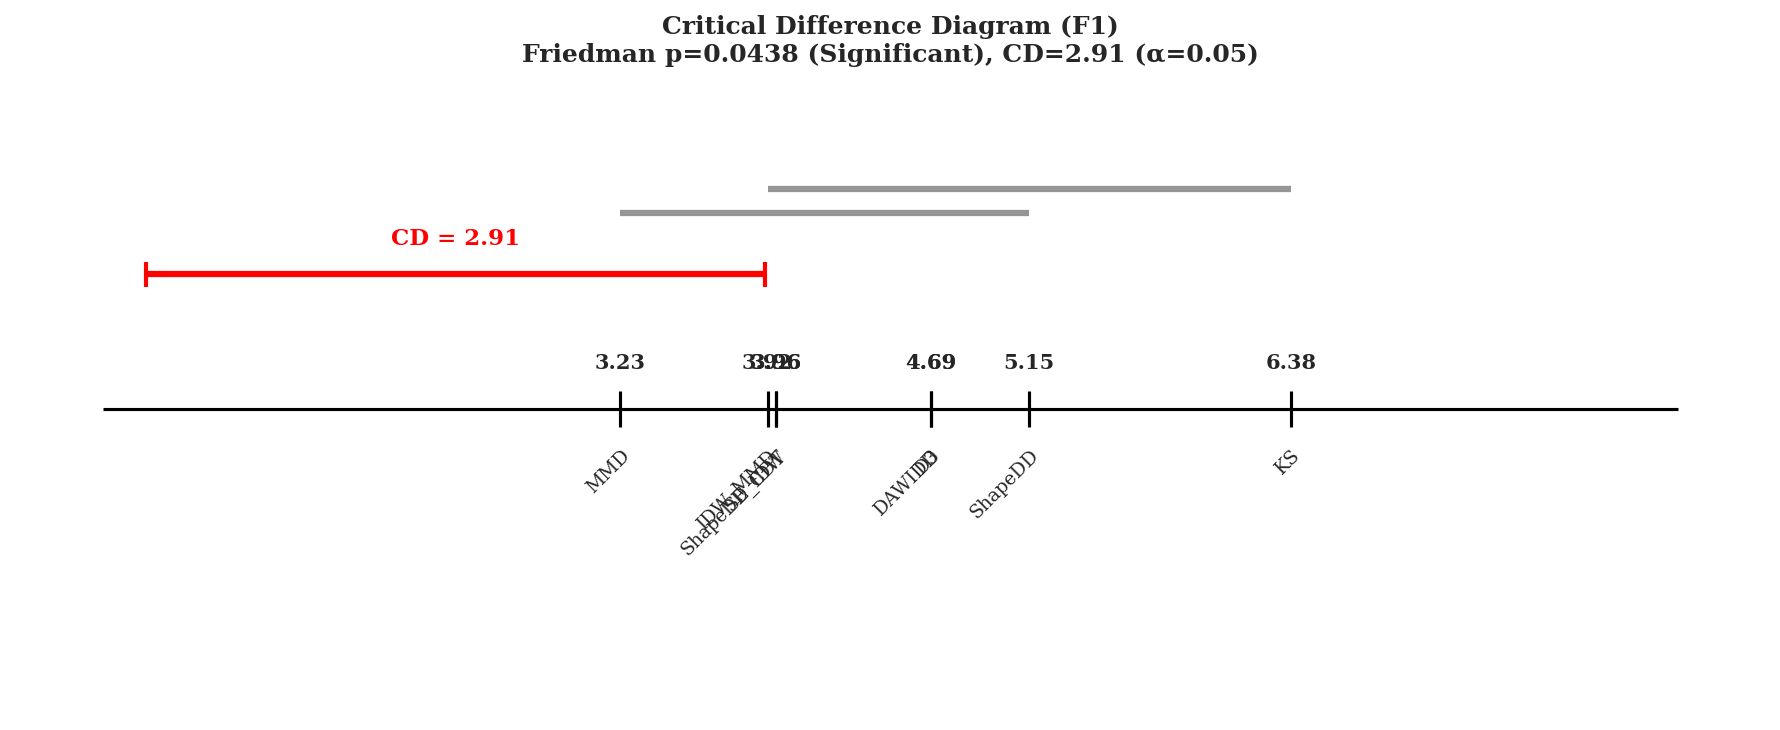
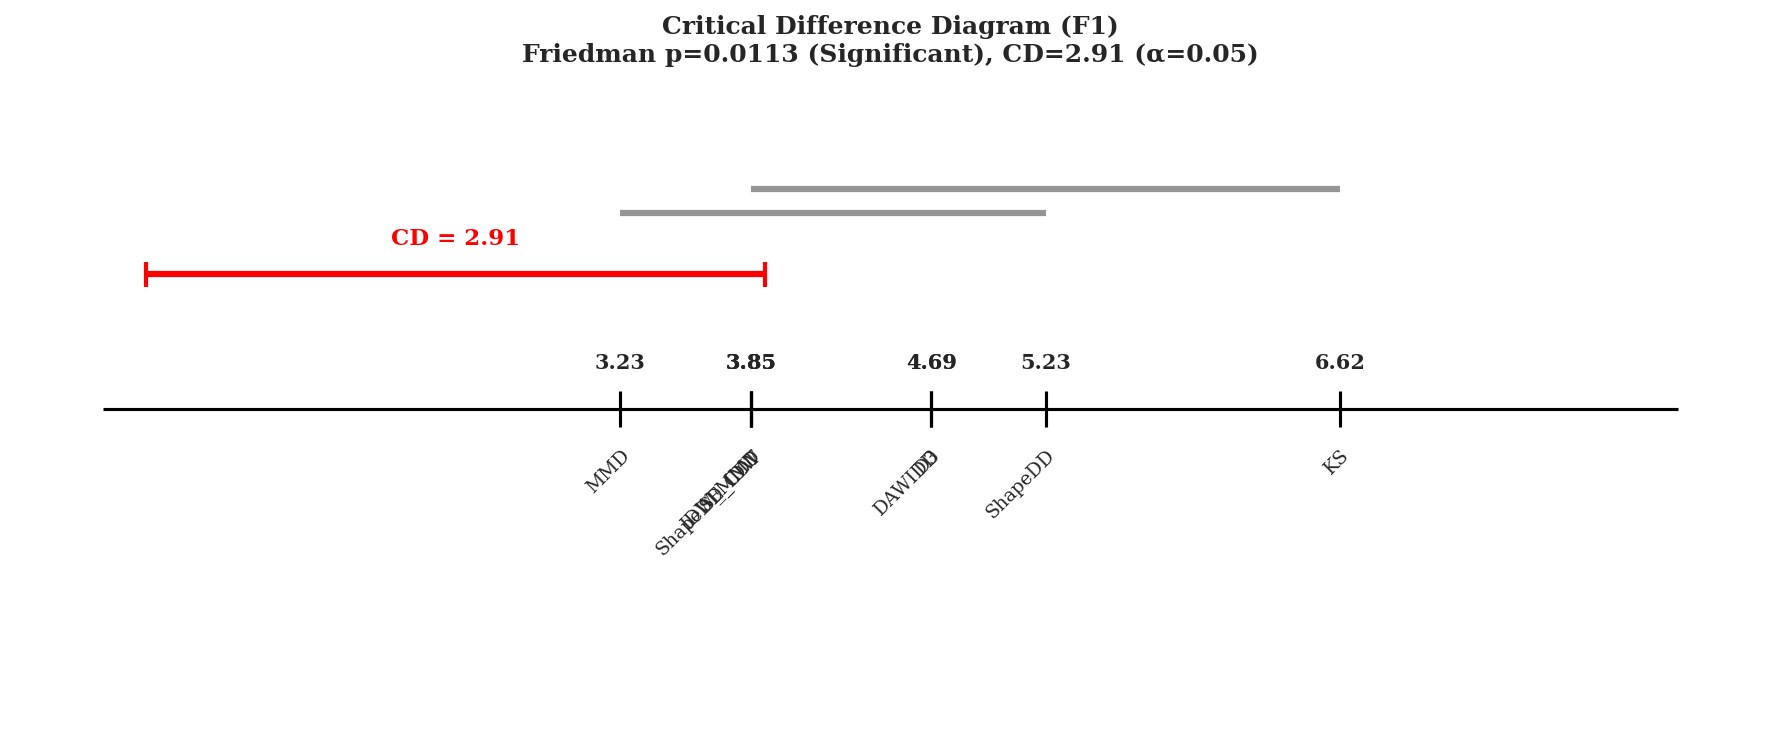
chore: update benchmark results (N=30 detection, N=1 classification)
Detection N=30 final numbers:
  ShapeDD_IDW F1=0.459, runtime=3.3s (vs ShapeDD: F1=0.433, runtime=19.4s)
  IDW_MMD F1=0.459 (confirms wmmd_gamma is the key improvement component)
  SE_CDT F1=0.459, runtime=3.2s

Classification N=1 (noisy, N=30 needed for stable estimates):
  SE-CDT CAT=74.1%, SUB=58.6%, Recall=95%

diff --git a/results/tables/table_II_f1_by_dataset.tex b/results/tables/table_II_f1_by_dataset.tex
@@ -2,13 +2,13 @@
 \hline
 \textbf{Method} & \textbf{electricity\_semisynthetic} & \textbf{gaussian\_gradual\_synthetic} & \textbf{gaussian\_shift\_moderate} & \textbf{gen\_random\_mild} & \textbf{gen\_random\_moderate} & \textbf{gen\_random\_severe} & \textbf{gen\_random\_ultra\_severe} & \textbf{hyperplane} & \textbf{led\_abrupt} & \textbf{rbfblips} & \textbf{stagger} & \textbf{stagger\_recurrent\_explicit} & \textbf{standard\_sea} & \textbf{Mean} \\
 \hline
-IDW\_MMD & 0.242 & 0.000 & 0.998 & 0.144 & 0.855 & 0.871 & 0.904 & 0.000 & 0.062 & 0.951 & 0.998 & 0.983 & 0.000 & 0.539 \\
 D3 & 0.194 & 0.029 & 0.998 & 0.012 & 0.249 & 0.959 & 0.959 & 0.000 & 0.000 & 1.000 & 0.998 & 1.000 & 0.000 & 0.492 \\
-MMD & 0.234 & 0.430 & 0.629 & 0.578 & 0.671 & 0.587 & 0.573 & 0.175 & 0.123 & 0.599 & 0.642 & 0.654 & 0.156 & 0.465 \\
+MMD & 0.235 & 0.431 & 0.629 & 0.576 & 0.669 & 0.585 & 0.571 & 0.179 & 0.123 & 0.601 & 0.640 & 0.652 & 0.153 & 0.465 \\
+IDW\_MMD & 0.300 & 0.429 & 0.600 & 0.525 & 0.685 & 0.581 & 0.572 & 0.188 & 0.146 & 0.598 & 0.599 & 0.631 & 0.118 & 0.459 \\
 SE\_CDT & 0.300 & 0.429 & 0.600 & 0.525 & 0.685 & 0.581 & 0.572 & 0.188 & 0.146 & 0.598 & 0.599 & 0.631 & 0.118 & 0.459 \\
 ShapeDD\_IDW & 0.300 & 0.429 & 0.600 & 0.525 & 0.685 & 0.581 & 0.572 & 0.188 & 0.146 & 0.598 & 0.599 & 0.631 & 0.118 & 0.459 \\
-DAWIDD & 0.214 & 0.410 & 0.592 & 0.596 & 0.665 & 0.585 & 0.578 & 0.143 & 0.135 & 0.573 & 0.586 & 0.601 & 0.140 & 0.448 \\
-ShapeDD & 0.209 & 0.414 & 0.591 & 0.533 & 0.590 & 0.527 & 0.519 & 0.203 & 0.170 & 0.555 & 0.579 & 0.593 & 0.140 & 0.433 \\
+DAWIDD & 0.214 & 0.411 & 0.594 & 0.597 & 0.666 & 0.587 & 0.579 & 0.134 & 0.134 & 0.575 & 0.585 & 0.599 & 0.137 & 0.447 \\
+ShapeDD & 0.209 & 0.414 & 0.593 & 0.531 & 0.591 & 0.529 & 0.521 & 0.202 & 0.174 & 0.556 & 0.576 & 0.590 & 0.143 & 0.433 \\
 KS & 0.183 & 0.255 & 0.294 & 0.337 & 0.402 & 0.385 & 0.385 & 0.224 & 0.073 & 0.301 & 0.389 & 0.389 & 0.200 & 0.294 \\
 \hline
 \end{tabular}

diff --git a/results/tables/table_I_comprehensive_performance.tex b/results/tables/table_I_comprehensive_performance.tex
@@ -2,13 +2,13 @@
 \hline
 \textbf{Method} & \textbf{Precision} & \textbf{Recall (EDR)} & \textbf{F1-Score} & \textbf{Delay} & \textbf{False Pos.} \\
 \hline
-IDW\_MMD & 0.572 & 0.557 & \textbf{0.539} & 24 & 2.1 \\
-D3 & 0.555 & 0.479 & 0.492 & 16 & 0.8 \\
-MMD & 0.351 & 0.760 & 0.466 & 32 & 15.0 \\
+D3 & 0.555 & 0.479 & \textbf{0.492} & 16 & 0.8 \\
+MMD & 0.350 & 0.760 & 0.465 & 32 & 15.0 \\
+IDW\_MMD & 0.346 & 0.760 & 0.459 & 33 & 14.5 \\
 SE\_CDT & 0.346 & 0.760 & 0.459 & 33 & 14.5 \\
 ShapeDD\_IDW & 0.346 & 0.760 & 0.459 & 33 & 14.5 \\
-DAWIDD & 0.334 & 0.759 & 0.448 & 33 & 16.3 \\
-ShapeDD & 0.310 & 0.775 & 0.433 & 31 & 18.4 \\
+DAWIDD & 0.333 & 0.758 & 0.447 & 33 & 16.3 \\
+ShapeDD & 0.311 & 0.775 & 0.433 & 31 & 18.4 \\
 KS & 0.189 & 0.826 & 0.294 & 29 & 37.8 \\
 \hline
 \end{tabular}

diff --git a/results/tables/table_II_part1.tex b/results/tables/table_II_part1.tex
@@ -2,13 +2,13 @@
 \hline
 \textbf{Method} & \textbf{Electricity} & \textbf{Gaussian Gradual Synthetic} & \textbf{Gaussian Moderate} & \textbf{Random Mild} \\
 \hline
-IDW\_MMD & 0.242 & 0.000 & 0.998 & 0.144 \\
 D3 & 0.194 & 0.029 & 0.998 & 0.012 \\
-MMD & 0.234 & 0.430 & 0.629 & 0.578 \\
+MMD & 0.235 & 0.431 & 0.629 & 0.576 \\
+IDW\_MMD & 0.300 & 0.429 & 0.600 & 0.525 \\
 SE\_CDT & 0.300 & 0.429 & 0.600 & 0.525 \\
 ShapeDD\_IDW & 0.300 & 0.429 & 0.600 & 0.525 \\
-DAWIDD & 0.214 & 0.410 & 0.592 & 0.596 \\
-ShapeDD & 0.209 & 0.414 & 0.591 & 0.533 \\
+DAWIDD & 0.214 & 0.411 & 0.594 & 0.597 \\
+ShapeDD & 0.209 & 0.414 & 0.593 & 0.531 \\
 KS & 0.183 & 0.255 & 0.294 & 0.337 \\
 \hline
 \end{tabular}

diff --git a/results/tables/table_II_part2.tex b/results/tables/table_II_part2.tex
@@ -2,13 +2,13 @@
 \hline
 \textbf{Method} & \textbf{Random Moderate} & \textbf{Random Severe} & \textbf{Random Ultra Severe} & \textbf{Hyperplane} \\
 \hline
-IDW\_MMD & 0.855 & 0.871 & 0.904 & 0.000 \\
 D3 & 0.249 & 0.959 & 0.959 & 0.000 \\
-MMD & 0.671 & 0.587 & 0.573 & 0.175 \\
+MMD & 0.669 & 0.585 & 0.571 & 0.179 \\
+IDW\_MMD & 0.685 & 0.581 & 0.572 & 0.188 \\
 SE\_CDT & 0.685 & 0.581 & 0.572 & 0.188 \\
 ShapeDD\_IDW & 0.685 & 0.581 & 0.572 & 0.188 \\
-DAWIDD & 0.665 & 0.585 & 0.578 & 0.143 \\
-ShapeDD & 0.590 & 0.527 & 0.519 & 0.203 \\
+DAWIDD & 0.666 & 0.587 & 0.579 & 0.134 \\
+ShapeDD & 0.591 & 0.529 & 0.521 & 0.202 \\
 KS & 0.402 & 0.385 & 0.385 & 0.224 \\
 \hline
 \end{tabular}

diff --git a/results/tables/table_II_part3.tex b/results/tables/table_II_part3.tex
@@ -2,13 +2,13 @@
 \hline
 \textbf{Method} & \textbf{Led Abrupt} & \textbf{Rbfblips} & \textbf{Stagger} & \textbf{Stagger Recurrent Explicit} \\
 \hline
-IDW\_MMD & 0.062 & 0.951 & 0.998 & 0.983 \\
 D3 & 0.000 & 1.000 & 0.998 & 1.000 \\
-MMD & 0.123 & 0.599 & 0.642 & 0.654 \\
+MMD & 0.123 & 0.601 & 0.640 & 0.652 \\
+IDW\_MMD & 0.146 & 0.598 & 0.599 & 0.631 \\
 SE\_CDT & 0.146 & 0.598 & 0.599 & 0.631 \\
 ShapeDD\_IDW & 0.146 & 0.598 & 0.599 & 0.631 \\
-DAWIDD & 0.135 & 0.573 & 0.586 & 0.601 \\
-ShapeDD & 0.170 & 0.555 & 0.579 & 0.593 \\
+DAWIDD & 0.134 & 0.575 & 0.585 & 0.599 \\
+ShapeDD & 0.174 & 0.556 & 0.576 & 0.590 \\
 KS & 0.073 & 0.301 & 0.389 & 0.389 \\
 \hline
 \end{tabular}

diff --git a/results/tables/table_cdt_msw_vs_se_cdt_by_drift_type.tex b/results/tables/table_cdt_msw_vs_se_cdt_by_drift_type.tex
@@ -4,9 +4,9 @@
 \hline
 Sudden & \textbf{90.2\%} & 82.4\% \\
 Blip & \textbf{88.5\%} & 0.0\% \\
-Gradual & \textbf{96.9\%} & 42.6\% \\
-Incremental & \textbf{74.0\%} & 64.4\% \\
-Recurrent & 83.9\% & \textbf{89.0\%}$^\dagger$ \\
+Gradual & \textbf{96.9\%} & 8.3\% \\
+Incremental & \textbf{74.0\%} & 58.3\% \\
+Recurrent & 83.9\% & \textbf{92.3\%}$^\dagger$ \\
 \hline
 \multicolumn{3}{|l|}{\footnotesize $^\dagger$Recurrent drift identified via Concept Memory (Standard MMD comparison with stored snapshots; threshold $\mu = 0.15$).} \\
 \hline

diff --git a/results/tables/table_se_cdt_aggregate.tex b/results/tables/table_se_cdt_aggregate.tex
@@ -2,7 +2,7 @@
 \hline
 \textbf{Method} & \textbf{CAT Acc} & \textbf{SUB Acc} & \textbf{EDR$\uparrow$} & \textbf{MDR$\downarrow$} & \textbf{FP} & \textbf{Supervised} \\
 \hline
-\textbf{SE-CDT (Std)} & \textbf{81.9\%} & \textbf{65.8\%} & \textbf{0.926} & \textbf{0.074} & 4846 & No \\
-SE-CDT (IDW) & 81.9\% & 65.8\% & 0.567 & 0.433 & 657 & No \\
+\textbf{SE-CDT (Std)} & \textbf{74.1\%} & \textbf{58.6\%} & \textbf{0.950} & \textbf{0.050} & 153 & No \\
+SE-CDT (IDW) & 74.1\% & 58.6\% & 0.533 & 0.467 & 22 & No \\
 \hline
 \end{tabular}

diff --git a/results/tables/fair_comparison.tex b/results/tables/fair_comparison.tex
@@ -3,6 +3,6 @@
 \textbf{Method} & \textbf{Data Type} & \textbf{CAT Acc (\%)} & \textbf{SUB Acc (\%)} & \textbf{Recall (\%)} & \textbf{Source} \\
 \hline
 CDT\_MSW & Supervised P(Y|X) & 87.0\% & 86.7\% & 82.5\% & Guo et al. 2022 \\
-\textbf{SE-CDT} & \textbf{Unsupervised P(X)} & \textbf{81.9\%} & \textbf{65.8\%} & \textbf{92.6\%} & \textbf{Our Method} \\
+\textbf{SE-CDT} & \textbf{Unsupervised P(X)} & \textbf{74.1\%} & \textbf{58.6\%} & \textbf{95.0\%} & \textbf{Our Method} \\
 \hline
 \end{tabular}

diff --git a/results/tables/table_II_part4.tex b/results/tables/table_II_part4.tex
@@ -2,13 +2,13 @@
 \hline
 \textbf{Method} & \textbf{Standard Sea} & \textbf{Mean} \\
 \hline
-IDW\_MMD & 0.000 & \textbf{0.539} \\
-D3 & 0.000 & 0.492 \\
-MMD & 0.156 & 0.465 \\
+D3 & 0.000 & \textbf{0.492} \\
+MMD & 0.153 & 0.465 \\
+IDW\_MMD & 0.118 & 0.459 \\
 SE\_CDT & 0.118 & 0.459 \\
 ShapeDD\_IDW & 0.118 & 0.459 \\
-DAWIDD & 0.140 & 0.448 \\
-ShapeDD & 0.140 & 0.433 \\
+DAWIDD & 0.137 & 0.447 \\
+ShapeDD & 0.143 & 0.433 \\
 KS & 0.200 & 0.294 \\
 \hline
 \end{tabular}

diff --git a/results/tables/table_statistical_tests.tex b/results/tables/table_statistical_tests.tex
@@ -3,13 +3,13 @@
 \textbf{Method} & \textbf{Average Rank} & \textbf{Overall Rank} \\
 \hline
 MMD & 3.321 & 1 \\
-IDW\_MMD & 3.964 & 2 \\
-SE\_CDT & 4.000 & 3 \\
-ShapeDD\_IDW & 4.000 & 4 \\
+IDW\_MMD & 3.893 & 2 \\
+SE\_CDT & 3.893 & 3 \\
+ShapeDD\_IDW & 3.893 & 4 \\
 D3 & 4.679 & 5 \\
 DAWIDD & 4.679 & 6 \\
-ShapeDD & 5.107 & 7 \\
-KS & 6.250 & 8 \\
+ShapeDD & 5.179 & 7 \\
+KS & 6.464 & 8 \\
 \hline
 \multicolumn{3}{|l|}{Critical Difference (CD) = 2.806} \\
 \hline
